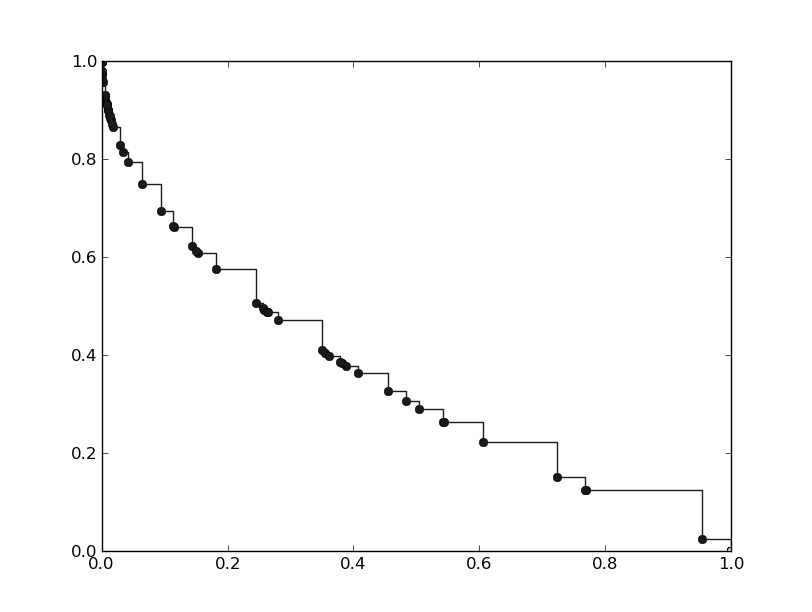
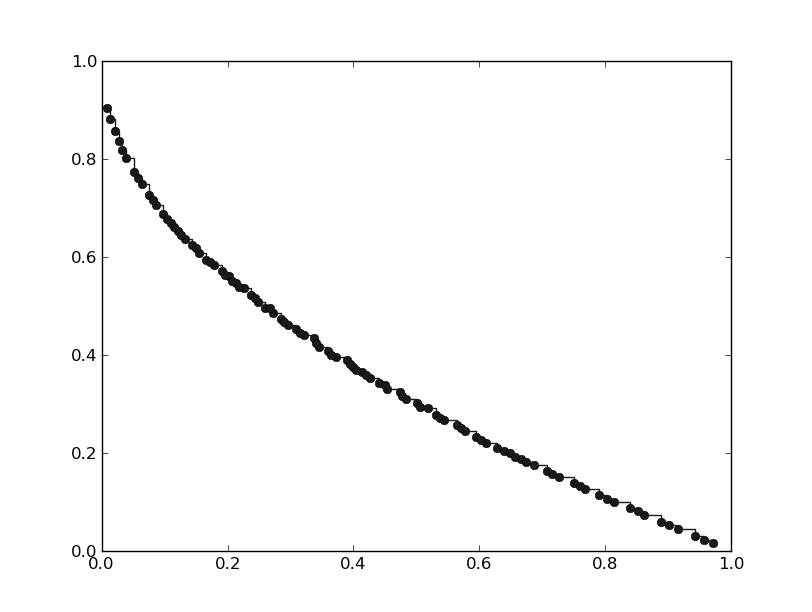
Finished the decomposition problem tutorial. Fixed typos in pade and nsga2 tutorials. Improved the default parameter settings for pade, nspso and decomposition problem

diff --git a/PyGMO/algorithm/__init__.py b/PyGMO/algorithm/__init__.py
@@ -477,7 +477,7 @@ _algorithm.pade.RANDOM = _algorithm._weight_generation.RANDOM
 _algorithm.pade.GRID = _algorithm._weight_generation.GRID
 _algorithm.pade.LOW_DISCREPANCY = _algorithm._weight_generation.LOW_DISCREPANCY
 from PyGMO.problem import decompose
-def _pade_ctor(self, gen=10, max_parallelism = 1, decomposition = decompose.WEIGHTED, solver = jde(100), T = 8, weights = pade.RANDOM, z = None):
+def _pade_ctor(self, gen=10, max_parallelism = 1, decomposition = decompose.BI, solver = jde(100), T = 8, weights = pade.LOW_DISCREPANCY, z = []):
 	"""
 	Constructs a Parallel Decomposition Algorithm (PaDe).
 	
@@ -504,8 +504,7 @@ def _pade_ctor(self, gen=10, max_parallelism = 1, decomposition = decompose.WEIG
 	arg_list.append(solver)
 	arg_list.append(T)
 	arg_list.append(weights)
-	if z != None:
-		arg_list.append(z)
+	arg_list.append(z)
 	self._orig_init(*arg_list)
 pade._orig_init = pade.__init__
 pade.__init__ = _pade_ctor
@@ -514,13 +513,13 @@ del decompose
 _algorithm.nspso.CROWDING_DISTANCE = _algorithm._diversity_mechanism.CROWDING_DISTANCE
 _algorithm.nspso.NICHE_COUNT = _algorithm._diversity_mechanism.NICHE_COUNT
 _algorithm.nspso.MAXMIN = _algorithm._diversity_mechanism.MAXMIN
-def _nspso_ctor(self, gen=10, minW = 0.4, maxW = 1.0, C1 = 2.0, C2 = 2.0,
-		CHI = 1.0, v_coeff = 0.5, leader_selection_range = 5, diversity_mechanism = nspso.MAXMIN):
+def _nspso_ctor(self, gen=100, minW = 0.4, maxW = 1.0, C1 = 2.0, C2 = 2.0,
+		CHI = 1.0, v_coeff = 0.5, leader_selection_range = 5, diversity_mechanism = nspso.CROWDING_DISTANCE):
 	"""
 	Constructs a Multi Objective PSO
 	
 	USAGE: algorithm.nspso(self, gen=10, minW = 0.4, maxW = 1.0, C1 = 2.0, C2 = 2.0,
-		CHI = 1.0, v_coeff = 0.5, leader_selection = 5, diversity_mechanism = nspso.MAXMIN):
+		CHI = 1.0, v_coeff = 0.5, leader_selection = 5, diversity_mechanism = nspso.CROWDING_DISTANCE):
 
 	* gen: number of generations
 	* minW: minimum particles' inertia weight (the inertia weight is decreased troughout the run between maxW and minW)

diff --git a/PyGMO/problem/__init__.py b/PyGMO/problem/__init__.py
@@ -570,7 +570,7 @@ normalized.__init__ = _normalized_ctor
 _problem.decompose.WEIGHTED = _problem._decomposition_method.WEIGHTED
 _problem.decompose.BI = _problem._decomposition_method.BI
 _problem.decompose.TCHEBYCHEFF = _problem._decomposition_method.TCHEBYCHEFF
-def _decompose_ctor(self, problem = None, method = decompose.WEIGHTED, weights = None, z = None):
+def _decompose_ctor(self, problem = None, method = decompose.WEIGHTED, weights = [], z = []):
 	"""
 	Implements a meta-problem class resulting in a decomposed version
 	of the multi-objective input problem, i.e. a single-objective problem
@@ -593,10 +593,8 @@ def _decompose_ctor(self, problem = None, method = decompose.WEIGHTED, weights =
 		problem=zdt1(2)
 	arg_list.append(problem)
 	arg_list.append(method)
-	if weights != None:
-		arg_list.append(weights)
-	if z != None:
-		arg_list.append(z)
+	arg_list.append(weights)
+	arg_list.append(z)
 	self._orig_init(*arg_list)
 decompose._orig_init = decompose.__init__
 decompose.__init__ = _decompose_ctor

diff --git a/src/algorithm/nspso.h b/src/algorithm/nspso.h
@@ -52,8 +52,8 @@ class __PAGMO_VISIBLE nspso: public base
 {
 public:
 	enum diversity_mechanism_type {CROWDING_DISTANCE=0, NICHE_COUNT=1, MAXMIN=2};
-	nspso(int gen=10, double minW = 0.4, double maxW = 1.0, double C1 = 2.0, double C2 = 2.0,
-		  double CHI = 1.0, double v_coeff = 0.5, int leader_selection_range = 10, diversity_mechanism_type = MAXMIN);
+	nspso(int gen=100, double minW = 0.4, double maxW = 1.0, double C1 = 2.0, double C2 = 2.0,
+		  double CHI = 1.0, double v_coeff = 0.5, int leader_selection_range = 10, diversity_mechanism_type = CROWDING_DISTANCE);
 	//nspso(const nspso &);
 
 	base_ptr clone() const;

diff --git a/src/algorithm/pade.h b/src/algorithm/pade.h
@@ -56,7 +56,7 @@ public:
 	pade(
 		  int gen=10, 
 		  unsigned int max_parallelism = 1, 
-		  pagmo::problem::decompose::method_type =  pagmo::problem::decompose::WEIGHTED,
+		  pagmo::problem::decompose::method_type =  pagmo::problem::decompose::BI,
 		  const pagmo::algorithm::base & = pagmo::algorithm::jde(100),
 		  population::size_type = 8,
 		  weight_generation_type = LOW_DISCREPANCY, 

diff --git a/src/algorithm/spea2.cpp b/src/algorithm/spea2.cpp
@@ -142,7 +142,6 @@ void spea2::evolve(population &pop) const
 			}
 		}
 
-		std::cout << "Gen: " << g << std::endl;
 		std::vector<double> F(new_pop.size(),0);
 
 		

diff --git a/doc/sphinx/tutorials/spea_ii_nsga_ii_and_ns_pso.rst b/doc/sphinx/tutorials/spea_ii_nsga_ii_and_ns_pso.rst
@@ -6,8 +6,8 @@ Using NSGA-II, SPEA2 and NS-PSO
 
 We will now introduce 3 more multi-objective optimization algorithms.
 
-Let's start with **NSGA-II**. NSGA-II is a nondominated-sorting based multiobjective evolutionary algorithm. It genererates offspring with crossover and mutation and select the next generation according to nondominated-sorting and crowding distance comparison.
-As for PADE it is possibile to solve a multi-objective optimization problem with NSGA-II as follow
+Let's start with **NSGA-II**. NSGA-II is a non-dominated sorting based multi-objective evolutionary algorithm. It generates offspring with crossover and mutation and select the next generation according to non-dominated sorting and crowding distance comparison.
+As for PADE it is possible to solve a multi-objective optimization problem with NSGA-II as follow
 
 .. code-block:: python
 
@@ -18,22 +18,22 @@ As for PADE it is possibile to solve a multi-objective optimization problem with
 	In [5]: pop = alg.evolve(pop)
 	In [6]: pop.plot_pareto_fronts()
 
-It is possible to specify the number of generations to run the algorithm, crossover and mutation probability as well as the mutation and crossover distribution index, as follow
+It is possible to specify the number of generations to run the algorithm for, crossover and mutation probability as well as the mutation and crossover distribution index, as follow
 
 .. code-block:: python
 
 	In [7] alg = algorithm.nsga_II(gen = 100, cr = 0.95, eta_c = 10, m = 0.01, eta_m = 50)
 
-This will run the nsga2 algorithms for 100 generations, with a crossover probability of 0.95, mutation probability of 0.01, crossover distribution index of 10 and mutation distribution index of 50.
+This will run the NSGA-II algorithms for 100 generations, with a crossover probability of 0.95, mutation probability of 0.01, crossover distribution index of 10 and mutation distribution index of 50.
 
 We now introduce **NSPSO**. Non-dominated Sorting Particle Swarm Optimizer (NSPSO) is a modified version of PSO for multi-objective optimization. It extends the basic ideas of PSO by making a better use of personal bests and offspring for non-dominated comparison. As for PSO it is possible to set:
 
- * *C1* and *C2* (the magnitude of the force to apply towards respectivly the personal best and the global best of a particle)
+ * *C1* and *C2* (the magnitude of the force to apply towards respectively the personal best and the global best of a particle)
  * *CHI* the velocity scaling factor
  * *m_v_coeff* the velocity coefficient (determining the maximum allowed particle velocity)
  * *minW* and *maxW* which defines in which range the inertia weight will be adapted throughout the run.
 
-Here we see how those parameters can be set when instanciating the algorithm
+Here we see how those parameters can be set when instantiating the algorithm
 
 .. code-block:: python
 
@@ -41,7 +41,7 @@ Here we see how those parameters can be set when instanciating the algorithm
 
 NSPSO selects the global best for each particles among non-dominated particles. The non-dominated particles are sorted according to one niching method (crowding distance, niche count or maxmin) and the leader is selected among the best ones. The parameter *leader_selection_range* define which fraction of the non-dominated particles to consider for selection as global best. 
 
-In the following code leader_selection_range is set to 20. That means that the global best for each particle is randomly selected among the top 20% of non-dominated individuals (according to the niching method).
+In the following code leader_selection_range is set to 20. That means that the global best for each particle is randomly selected among the top 20% (according to the niching method) non-dominated individuals.
 
 .. code-block:: python
 	
@@ -55,8 +55,8 @@ It is possible to choose between 3 different niching methods: CROWDING DISTANCE,
 	In [11]: alg = algorithm.nspso(diversity_mechanism = algorithm.nspso.NICHE_COUNT)
 	In [12]: alg = algorithm.nspso(diversity_mechanism = algorithm.nspso.MAXMIN)
 
-The last multi-objective optimization algorithm we introduce is **SPEA2**. In the Strength Pareto Evolutionary Algorithm (SPEA2) the quality of an individual is measured taking into consideration its pareto strenght and its distance to its K-th neighbour, where *K = sqrt(pop size + archive size)*.
-It uses the same mutation and crossover operators of NSGA2, so as for the former it is possible to specif the number of generations to run the algorithm for, crossover and mutation probability as well as the mutation and crossover distribution index, as follow.
+The last multi-objective optimization algorithm we introduce is **SPEA2**. In the Strength Pareto Evolutionary Algorithm (SPEA2) the quality of an individual is measured taking into consideration its pareto strength and its distance to its K-th neighbour, where *K = sqrt(pop size + archive size)*.
+It uses the same mutation and crossover operators of NSGA-II, so as for the former it is possible to specify the number of generations to run the algorithm for, crossover and mutation probability as well as the mutation and crossover distribution index, as follow.
 
 .. code-block:: python
 
@@ -64,14 +64,16 @@ It uses the same mutation and crossover operators of NSGA2, so as for the former
 
 SPEA2 uses an external archive in which are stored the non dominated solutions found so far. The size of the archive is kept constant throughout the run by mean of a truncation operator taking into consideration the distance of each individual to its closest neighbours. 
 
-It is possible to set the archive size in two ways. If *archive_size* is set to 0 (which is the default behaviour), then archive size is adapted to be equal to the population which is evolving.
+It is possible to set the archive size in two ways. If *archive_size* is set to 0 (which is the default behaviour), then archive size is adapted to be equal to the population which is evolving. In the following case, for example, the archive size will be set equal to 100.
 
 .. code-block:: python
 
 	In [13]: alg = algorithm.spea2(archive_size = 0)
+	In [14]: pop = population(prob, 100)
+	In [15]: pop = alg.evolve(pop)
 
 Otherwise it is possible to set the archive size to any size, up to the population size.
 
 .. code-block:: python
 
-	In [13]: alg = algorithm.spea2(archive_size = 20)
+	In [16]: alg = algorithm.spea2(archive_size = 20)

diff --git a/doc/sphinx/tutorials/pade_a_moea_d_algorithm.rst b/doc/sphinx/tutorials/pade_a_moea_d_algorithm.rst
@@ -22,7 +22,7 @@ We will get the following
 .. image:: ../images/tutorials/pade/basic_pade_front.png
     :width: 500pt
 
-Each point on the pareto front corresponds to the solution to a single-objective problem. In order for the point to be well spreaded is then crucial to choose the proper decomposition method and the proper weight vectors. It is possible to do that as follow
+Each point on the pareto front corresponds to the solution to a single-objective problem. In order for the point to be well spread is then crucial to choose the proper decomposition method and the proper weight vectors. It is possible to do that as follow
 
 .. code-block:: python
 
@@ -33,7 +33,7 @@ Each point on the pareto front corresponds to the solution to a single-objective
 .. image:: ../images/tutorials/pade/bi_grid_zdt1.png
     :width: 500pt
 
-As we can see the points on the pareto front are much better spreaded.
+As we can see the points on the pareto front are much better spread.
 
 In the following plots we see how different weight generation methods perform on the 3-objective benchmark problem DTLZ1. First we will use a RANDOM weight generation.
 
@@ -74,7 +74,7 @@ As we can see from the error message we cannot use any population size. The erro
 .. image:: ../images/tutorials/pade/bi_grid_dtlz1.png
     :width: 500pt
 
-As we can see the front is much better spreaded. The only drawback of the GRID method is that we are not free to choose any population size. To have a better spread than the one obtained with the RANDOM method but still be able to choose any population size, we can use the LOW_DISCREPANCY method.
+As we can see the front is much better spread. The only drawback of the GRID method is that we are not free to choose any population size. To have a better spread than the one obtained with the RANDOM method but still be able to choose any population size, we can use the LOW_DISCREPANCY method.
 
 .. code-block:: python
 
@@ -94,7 +94,7 @@ It is possible to choose which single-objective algorithm to use to solve each s
 
 	In [1]: alg = algorithm.pade(solver = algorithm.jde(50))
 
-Moreover, as said at the begining of the tutorial, PADE solves the single-objective problems in parallel. It is possible to set how many threads to run. This should be ideally equal to the number of logic cores available in the machine which runs the code.
+Moreover, as said at the beginning of the tutorial, PADE solves the single-objective problems in parallel. It is possible to set how many threads to run. This should be ideally equal to the number of logic cores available in the machine which runs the code.
 
 .. code-block:: python
 
